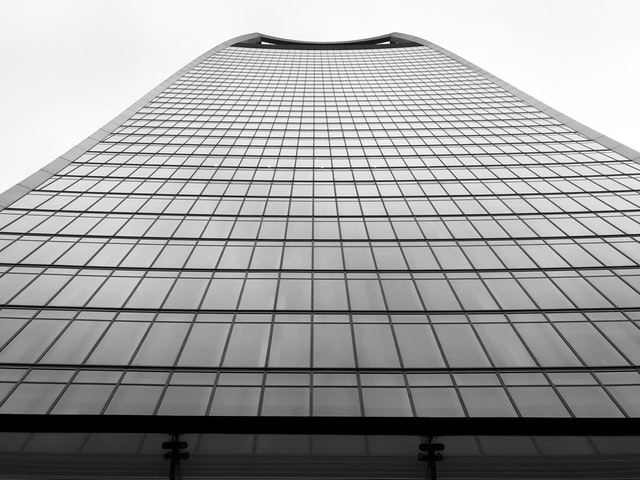
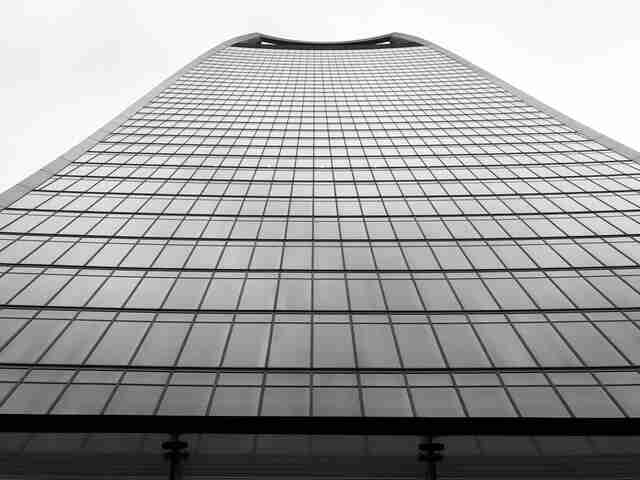
optimized images

diff --git a/frontend/components/FeaturedPropertyCard.tsx b/frontend/components/FeaturedPropertyCard.tsx
@@ -22,6 +22,7 @@ const Small = ({ description, id, images, location, price, title }: Property) =>
                 height='100%'
                 style={{
                     borderRadius: 10,
+                    maxHeight: 200
                     // borderBottomLeftRadius: 0,
                     // borderBottomRightRadius: 0
                 }}
@@ -96,6 +97,8 @@ const Small = ({ description, id, images, location, price, title }: Property) =>
             background='white'
             borderRadius={10}
             elevation={2}
+            maxHeight={500}
+            height='100%'
         >
             <Heading fontWeight={700} size={600}>{title}</Heading>
             <Pane display='flex' alignSelf='center' justifyContent='center' marginTop={10} flexDirection='row' alignItems='center' >
@@ -103,7 +106,7 @@ const Small = ({ description, id, images, location, price, title }: Property) =>
                 <Text size={600} fontWeight={500}>{location}</Text>
             </Pane>
             <Paragraph size={500}>
-                {description}
+                {description.split('').splice(0, 300).join('')}
             </Paragraph>
             <Heading padding={2} size={700}>{price}</Heading>
         </Card>

diff --git a/frontend/components/PropertyCard/GridViewCard.tsx b/frontend/components/PropertyCard/GridViewCard.tsx
@@ -49,8 +49,8 @@ const GridViewCard = ({ active, property:
                     {featured && <Pane style={{ backgroundColor: '#FFC82D', padding: 5, borderRadius: 2 }}>
                         <Text size={500} style={{ fontWeight: '600' }} color='white'>FEATURED</Text>
                     </Pane>}
-                    {description && <Paragraph>
-                        {description.split('').splice(0, 30).join('') + '...'}
+                    {!!description && <Paragraph>
+                        {description.split('').splice(0, 100).join('') + '...'}
                     </Paragraph>}
                     {!disableButton && < Pane >
                         <Tooltip content={onDelete ? 'Delete Property' : 'Share Property'}>

diff --git a/frontend/components/PropertyCard/ListViewCard.tsx b/frontend/components/PropertyCard/ListViewCard.tsx
@@ -73,7 +73,7 @@ const ListViewCard = ({ active, property: { images, title, location, price, id, 
 
                     <Paragraph
                     >
-                        {description}
+                        {description.split('').splice(1, 100).join('') + '...'}
                     </Paragraph>
 
                 </Pane>
